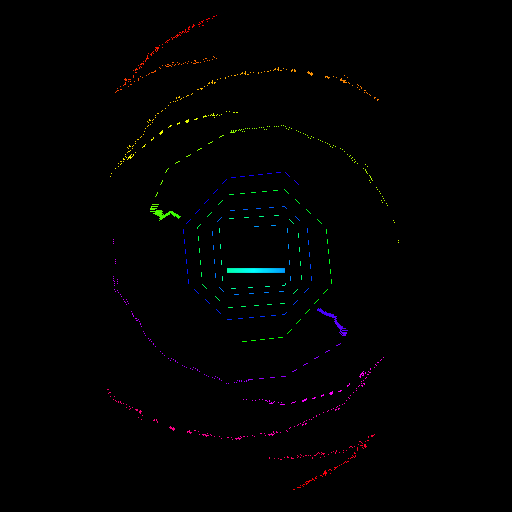
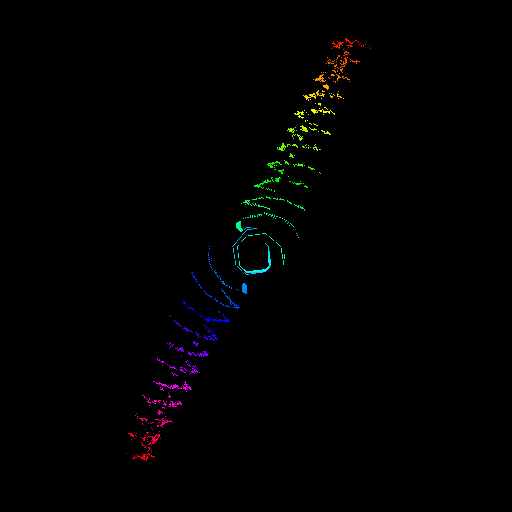
restructured

diff --git a/cv2_rotator.py b/cv2_rotator.py
@@ -1,51 +1,99 @@
 import cv2
 import numpy as np
 
-
-def rotate_image(image, angle):
-    height, width = image.shape[:2]
-    rotation_matrix = cv2.getRotationMatrix2D((width/2, height/2), angle, 1)
-    rotated_image = cv2.warpAffine(image, rotation_matrix, (width, height))
-    return rotated_image
+from typing import Optional
 
 
-def extend_to_square(image):
-    height, width = image.shape[:2]
-    max_dim = max(height, width)
-    
-    square_image = np.zeros((max_dim, max_dim, 3), np.uint8)
-    start_y = (max_dim - height) // 2
-    start_x = (max_dim - width) // 2
-    square_image[start_y:start_y+height, start_x:start_x+width] = image
-    
-    return square_image
+class CVRotatorVideo:
+    """Класс для создания видео с многократным поворотом изображения на малый градус с использованием OpenCV.
+
+    Attributes:
+        angle (int): Угол поворота в градусах.
+        original_image (np.ndarray): Исходное изображение в формате numpy array.
+        width (int): Ширина изображения после дополнения до квадрата.
+        height (int): Высота изображения после дополнения до квадрата.
+    """
+
+    def __init__(self, image_path: str, angle: float = 1) -> None:
+        """Инициализация вращятеля.
+
+        Args:
+            image_path (str): Путь к исходному изображению.
+            angle (float): Угол поворота для каждого кадра (по умолчанию 1 градус).
+        """
+        self.angle = angle
+        self.original_image = cv2.imread(image_path)
+        self.original_image = self.extend_to_square(self.original_image)
+        self.height, self.width, _ = self.original_image.shape
+
+    def process(self, n_iter: int, output_path: Optional[str] = None, fps: int = 60) -> None:
+        """Основной метод обработки - отображает и/или сохраняет видео.
+
+        Args:
+            n_iter (int): Количество итераций (кадров) поворота.
+            output_path (Optional[str]): Путь для сохранения видео (если None - только отображение).
+            fps (int): Частота кадров для выходного видео.
+        """
+        # Инициализация VideoWriter если указан путь для сохранения
+        if output_path is not None:
+            fourcc = cv2.VideoWriter_fourcc(*'mp4v')
+            out = cv2.VideoWriter(output_path, fourcc, fps, (self.width, self.height))
+
+        rotated_image = self.original_image
+
+        for _ in range(n_iter):
+            # Сохранение кадра в видео если нужно
+            if output_path is not None:
+                out.write(rotated_image)
+
+            # Отображение текущего кадра
+            cv2.imshow("Rotated Image", rotated_image)
+            cv2.waitKey(1)  # Короткая пауза для отображения
+
+            # Применение поворота
+            rotated_image = self.rotate_image(rotated_image, self.angle)
+
+        # Завершение записи видео
+        if output_path is not None:
+            out.release()
+
+        # Ожидание закрытия окна
+        cv2.waitKey(0)
+        cv2.destroyAllWindows()
+
+    def rotate_image(self, image: np.ndarray, angle: float) -> np.ndarray:
+        """Поворачивает изображение на заданный угол.
+
+        Args:
+            image (np.ndarray): Входное изображение в формате numpy array.
+            angle (float): Угол поворота в градусах.
+
+        Returns:
+            np.ndarray: Повернутое изображение.
+        """
+        rotation_matrix = cv2.getRotationMatrix2D((self.width / 2, self.height / 2), angle, 1)
+        return cv2.warpAffine(image, rotation_matrix, (self.width, self.height))
+
+    def extend_to_square(self, image: np.ndarray) -> np.ndarray:
+        """Дополняет изображение до квадратной формы, добавляя черные поля.
+
+        Args:
+            image (np.ndarray): Входное изображение любой формы.
+
+        Returns:
+            nd.array: Квадратное изображение с исходным изображением по центру.
+        """
+        height, width = image.shape[:2]
+        max_dim = max(height, width)
+        
+        square_image = np.zeros((max_dim, max_dim, 3), np.uint8)
+        start_y = (max_dim - height) // 2
+        start_x = (max_dim - width) // 2
+        square_image[start_y:start_y + height, start_x:start_x + width] = image
+        
+        return square_image
 
 
-image_path = "2.jpg"  # <-- image path
-angle = 1  # <-- angle
-
-
-original_image = cv2.imread(image_path)
-original_image = extend_to_square(original_image)
-
-height, width, _ = original_image.shape
-
-fourcc = cv2.VideoWriter_fourcc(*'mp4v')
-fps = 60  # <-- fps
-
-out = cv2.VideoWriter('output/video/output_video_cv2.mp4', fourcc, fps, (width, height))
-
-rotated_image = original_image
-
-
-for _ in range(1000):
-    out.write(rotated_image)
-
-    cv2.imshow("Rotated Image", rotated_image)
-    cv2.waitKey(1)
-
-    rotated_image = rotate_image(rotated_image, angle)
-
-
-out.release()
-cv2.destroyAllWindows()
+if __name__ == "__main__":  # Пример использования
+    rotator = CVRotatorVideo('input/line.png', angle=0.3)
+    rotator.process(1000)

diff --git a/pillow_rotator.py b/pillow_rotator.py
@@ -1,0 +1,54 @@
+from PIL import Image
+
+
+class PillowRotator:
+    """Класс для многократного поворота изображений на малый градус с использованием библиотеки Pillow.
+
+    Attributes:
+        input_path (str): Путь к исходному изображению.
+        output_path (str): Путь для сохранения результата.
+        angle (float): Угол поворота в градусах.
+    """
+
+    def __init__(self, input_path: str, output_path: str, angle: float) -> None:
+        """Инициализация врящателя изображений.
+
+        Args:
+            input_path (str): Путь к исходному файлу изображения.
+            output_path (str): Путь для сохранения повернутого изображения.
+            angle (float): Угол поворота в градусах (положительный - против часовой стрелки).
+        """
+        self.input_path = input_path
+        self.output_path = output_path
+        self.angle = angle
+
+    def rotate_image(self, input_path: str, output_path: str) -> None:
+        """Поворачивает изображение и сохраняет результат.
+
+        Args:
+            input_path (str): Путь к изображению для поворота.
+            output_path (str): Путь для сохранения результата.
+        """
+        image = Image.open(input_path).convert("RGB")
+        rotated_image = image.rotate(self.angle)
+        rotated_image.save(output_path)
+        image.close()
+
+    def process(self, n_iter: int) -> None:
+        """Выполняет многократный поворот изображения.
+
+        Args:
+            n_iter (int): Количество итераций поворота.
+        """
+        self.rotate_image(self.input_path, self.output_path)
+        for _ in range(n_iter - 1):
+            self.rotate_image(self.output_path, self.output_path)
+
+
+if __name__ == "__main__":  # Пример использования класса
+    rotator = PillowRotator(
+        input_path='input/line.png', 
+        output_path='output/image/result.png',
+        angle=3
+    )
+    rotator.process(200)
